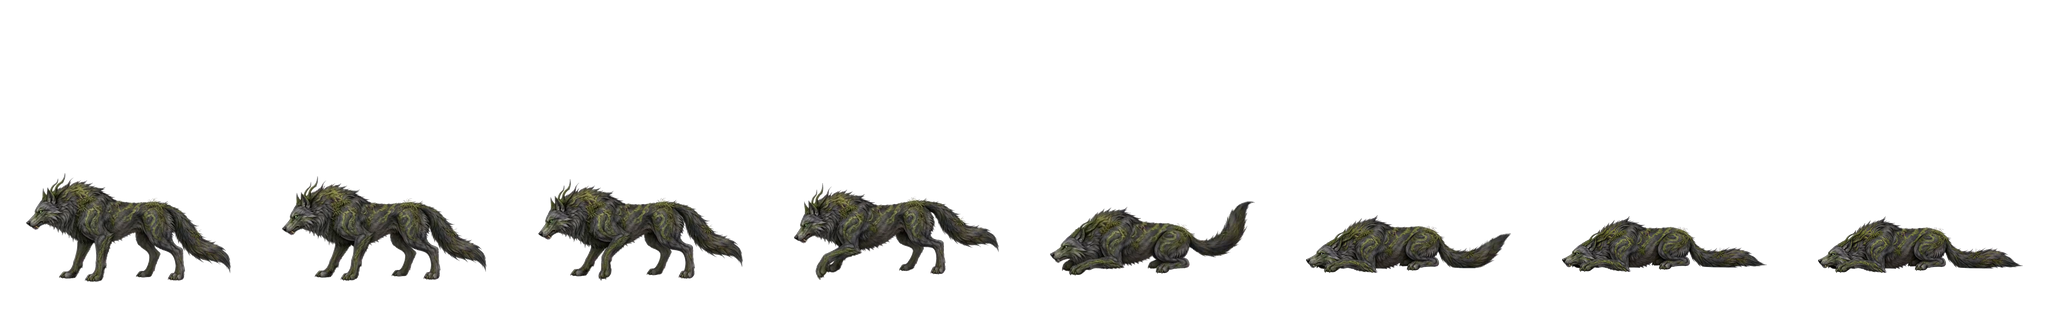
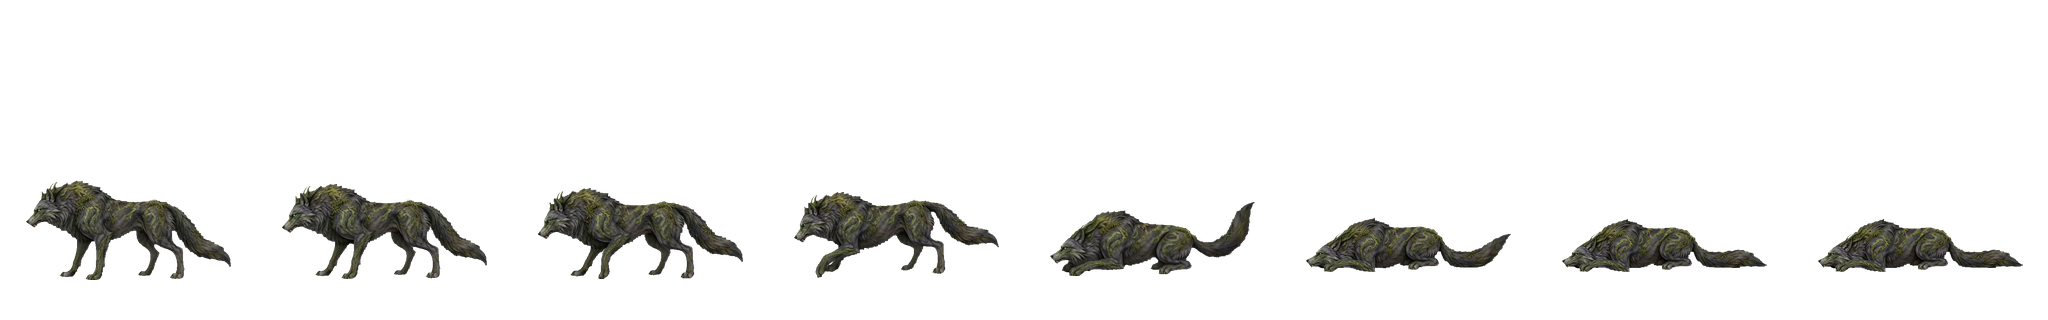
fix: remove white matte fringes from actors

diff --git a/cocos-client/tools/build-vertical-slice-atlases.py b/cocos-client/tools/build-vertical-slice-atlases.py
@@ -14,7 +14,7 @@ from pathlib import Path, PurePosixPath, PureWindowsPath
 from statistics import median
 from typing import Any
 
-from PIL import Image, ImageDraw, ImageFilter, ImageFont
+from PIL import Image, ImageChops, ImageDraw, ImageFilter, ImageFont
 
 
 SOURCE_MODES = {"layered-keyframes", "pose-video", "frame-sequence"}
@@ -33,6 +33,8 @@ DEFAULT_QUALITY = {
     "safePadding": 0.08,
 }
 ALPHA_VISIBILITY_THRESHOLD = 8
+MAX_WHITE_MATTE_FRINGE_LAYERS = 8
+POSE_VIDEO_MATTE_FRINGE_LAYERS = 3
 # Source frames may contain a handful of antialiased hair or fur pixels at an edge.
 # Treat clipping as substantive when edge pixels exceed 0.5% of the subject.
 # A long edge span is also suspicious, but only once contact exceeds 0.3%; this
@@ -178,10 +180,42 @@ def remove_isolated_alpha_components(image: Image.Image, *, maximum_gap=6, edge_
     return source
 
 
-def sanitize_runtime_frame(image: Image.Image, frame_size, *, padding_ratio=0.10, anchor=None):
+def remove_white_matte_fringe(image: Image.Image, layers=0):
+    if type(layers) is not int or not 0 <= layers <= MAX_WHITE_MATTE_FRINGE_LAYERS:
+        raise ValueError(
+            f"white matte fringe layers must be an integer in [0, {MAX_WHITE_MATTE_FRINGE_LAYERS}]"
+        )
+    source = image.convert("RGBA")
+    alpha = source.getchannel("A")
+    for _ in range(layers):
+        visible = alpha.point(lambda value: 255 if value > 0 else 0)
+        inset = visible.filter(ImageFilter.MinFilter(3))
+        if inset.getbbox() is None:
+            break
+        # White-matte transitions also contain gray pixels, so remove the narrow
+        # contaminated contour instead of matching only pure-white samples.
+        alpha = ImageChops.multiply(alpha, inset)
+    source.putalpha(alpha)
+    return source
+
+
+def sanitize_runtime_frame(
+    image: Image.Image,
+    frame_size,
+    *,
+    padding_ratio=0.10,
+    anchor=None,
+    white_matte_fringe_layers=0,
+):
     anchor = anchor or {"x": 0.5, "y": 0.86}
     cleaned = remove_isolated_alpha_components(image)
-    normalized = normalize_frame(cleaned, frame_size, padding_ratio, anchor)
+    normalized = normalize_frame(
+        cleaned,
+        frame_size,
+        padding_ratio,
+        anchor,
+        white_matte_fringe_layers=white_matte_fringe_layers,
+    )
     normalized.putalpha(normalized.getchannel("A").point(lambda alpha: alpha if alpha >= ALPHA_VISIBILITY_THRESHOLD else 0))
     return remove_isolated_alpha_components(normalized)
 
@@ -319,7 +353,14 @@ def remove_border_connected_checkerboard(
     return source
 
 
-def normalize_frame(image: Image.Image, frame_size, padding_ratio, anchor):
+def normalize_frame(
+    image: Image.Image,
+    frame_size,
+    padding_ratio,
+    anchor,
+    *,
+    white_matte_fringe_layers=0,
+):
     target_width, target_height = _as_size(list(frame_size), "frame_size")
     if not 0 <= padding_ratio < 0.4:
         raise ValueError("padding_ratio must be in [0, 0.4)")
@@ -328,7 +369,7 @@ def normalize_frame(image: Image.Image, frame_size, padding_ratio, anchor):
     if not 0 <= anchor_x <= 1 or not 0 <= anchor_y <= 1:
         raise ValueError("anchor must be normalized")
 
-    source = image.convert("RGBA")
+    source = remove_white_matte_fringe(image, white_matte_fringe_layers)
     left, top, right, bottom = _bbox_or_error(source)
     subject = source.crop((left, top, right, bottom))
     safe_width = target_width * (1 - padding_ratio * 2)
@@ -805,9 +846,25 @@ def _load_action_source_frames(action_config, source_root: Path):
     return frames
 
 
-def _normalize_action_frames(source_frames, frame_size, anchor, *, sanitize_fragments=False):
+def _normalize_action_frames(
+    source_frames,
+    frame_size,
+    anchor,
+    *,
+    sanitize_fragments=False,
+    white_matte_fringe_layers=0,
+):
     normalize = sanitize_runtime_frame if sanitize_fragments else normalize_frame
-    frames = [normalize(frame, frame_size, padding_ratio=0.10, anchor=anchor) for frame in source_frames]
+    frames = [
+        normalize(
+            frame,
+            frame_size,
+            padding_ratio=0.10,
+            anchor=anchor,
+            white_matte_fringe_layers=white_matte_fringe_layers,
+        )
+        for frame in source_frames
+    ]
     for frame in frames:
         validate_subject(frame, 0.10)
     return frames
@@ -873,6 +930,11 @@ def build_actor(source_config, source_root, output_root, report_root=None, repor
                 frame_size,
                 anchor,
                 sanitize_fragments=bool(source_config.get("sanitizeRuntimeFragments", False)),
+                white_matte_fringe_layers=(
+                    POSE_VIDEO_MATTE_FRINGE_LAYERS
+                    if action_config.get("sourceMode") == "pose-video"
+                    else 0
+                ),
             )
         except ValueError as error:
             raise ValueError(f"{context}: normalization failed: {error}") from error
